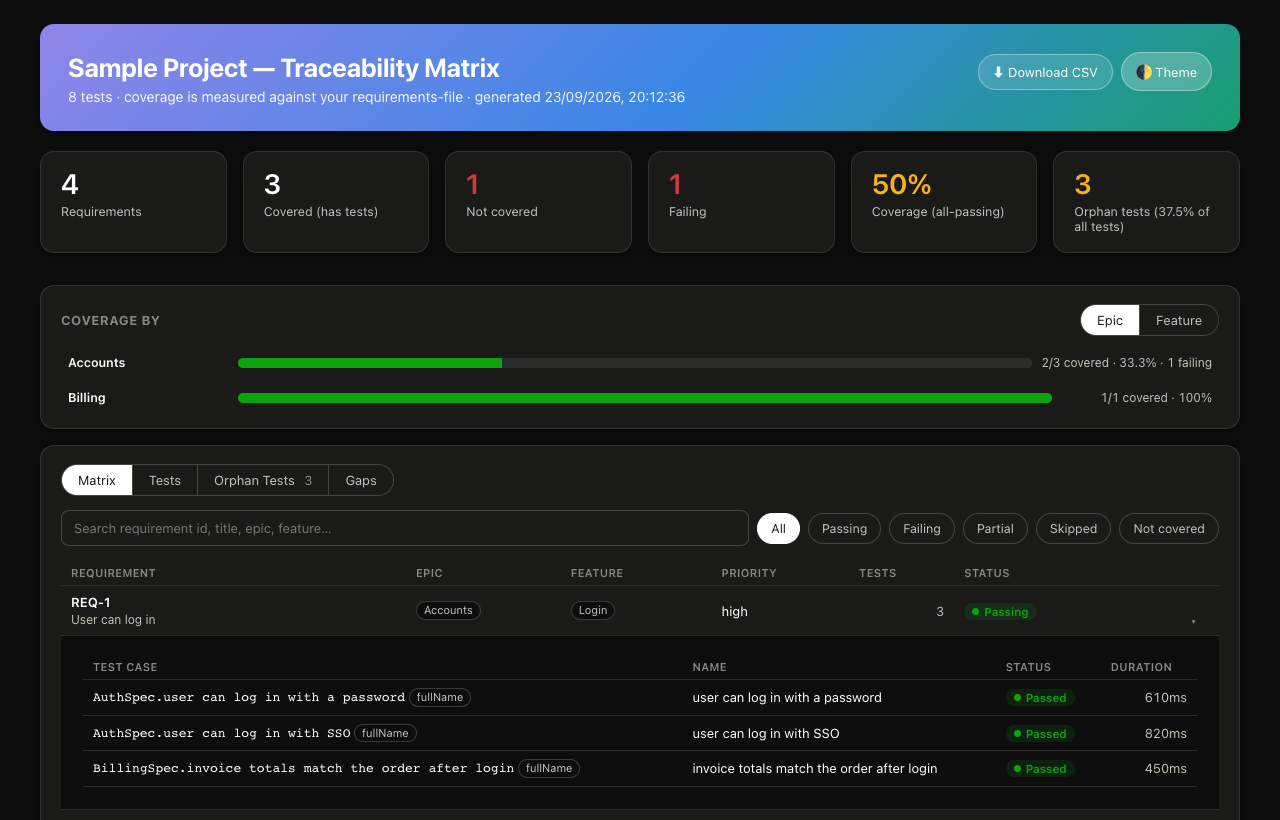
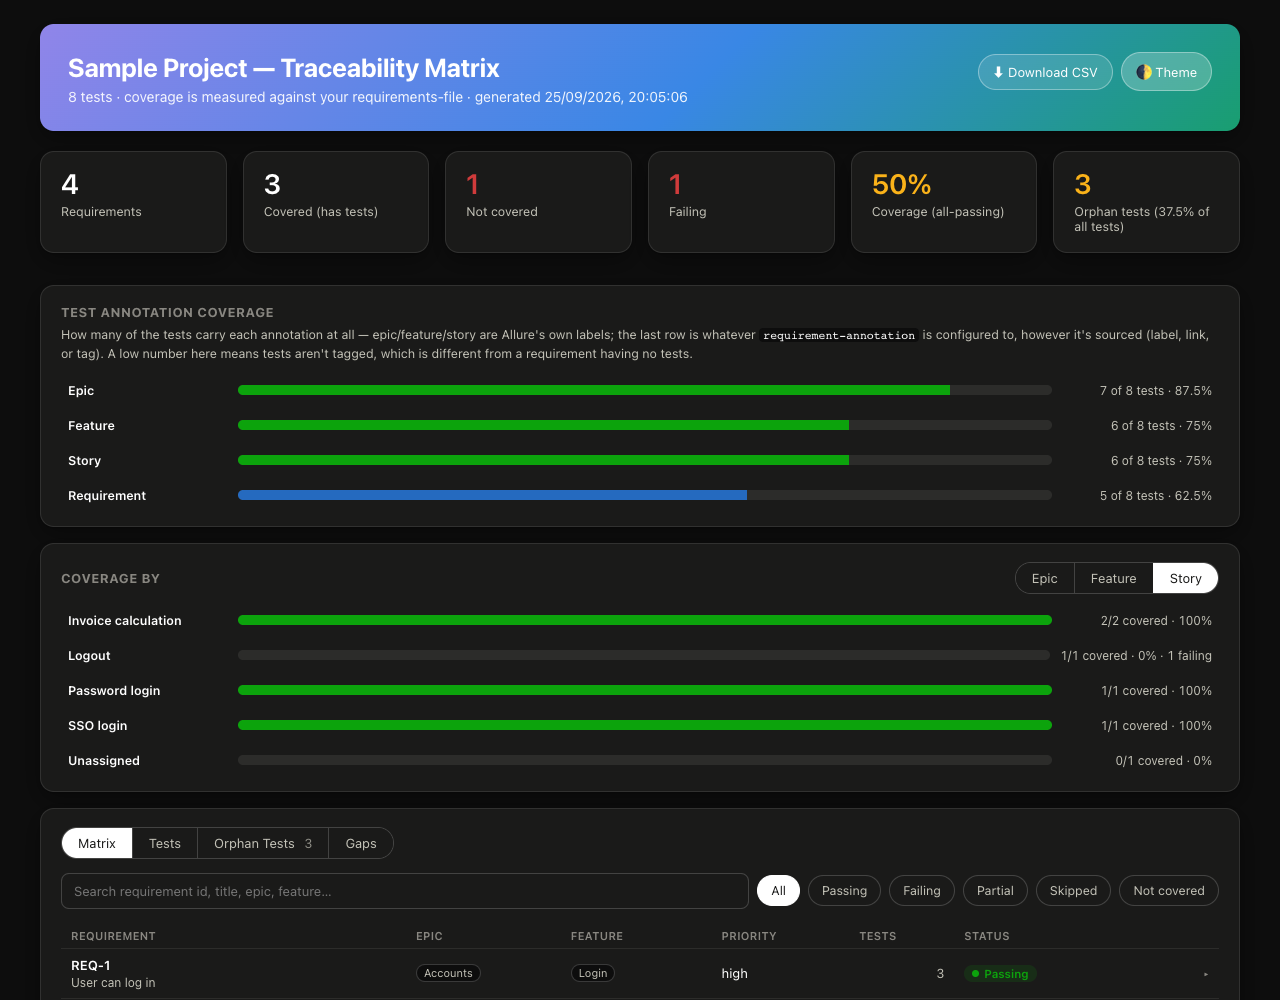
Traceability matrix: Story tab, Test annotation coverage card, docs, CI
- New "Test annotation coverage" card (top of page): a bar per Epic,
  Feature, Story and the configured requirement annotation, showing how
  many of all tests carry it at all - independent of and complementary to
  the existing "Coverage by" (requirement-level) grouping, which now also
  has a Story tab alongside Epic/Feature.
- README: new "Epic / feature / story vs. requirement coverage" section
  spelling out the distinction between the two views (test tagging hygiene
  vs. requirement coverage sliced by group) - the two easily read as the
  same thing since both mention Story, and they're deliberately not.
- Fixture: added epic/feature/story labels to 6 of the 8 sample tests
  (varied - some get all three, one gets only epic, one gets none) so the
  new comparison has real, uneven data to show (87.5% epic-tagged vs 75%
  feature/story vs 62.5% requirement-tagged in the bundled demo) instead of
  either 0% or 100% across the board. Existing requirement-coverage
  assertions are unaffected - epic/feature/story are an independent label
  dimension from the requirement/issue links those assertions check.
- Self-test workflow: new assertions for annotationCoverage counts, a
  byStory group's requirement count, and a requirement's resolved
  groups.story values - specifically covering the bug fixed in the
  previous commit, so a regression there fails CI, not just a future manual
  check.
- Regenerated docs/screenshot-{light,dark}.png from the enriched fixture,
[…]

diff --git a/traceability/site-template/assets/js/app.js b/traceability/site-template/assets/js/app.js
@@ -141,7 +141,24 @@ function renderMeta(summary) {
 }
 
 // ---- coverage by epic/feature ------------------------------------------
-const groupState = { data: { epic: [], feature: [] }, active: 'epic', filter: null };
+// ---- test annotation coverage (epic/feature/story labels vs the configured
+// requirement annotation) — a flat comparison, not a drill-down, so these
+// rows aren't clickable like the "Coverage by" ones below.
+function renderAnnotationCoverage(rows, totalTests) {
+  const host = document.getElementById('annotation-bars');
+  if (!rows || !rows.length) {
+    host.innerHTML = '<div class="empty-state">No annotations to compare.</div>';
+    return;
+  }
+  host.innerHTML = rows.map((r) => `
+    <div class="group-bar-row static${r.isRequirement ? ' requirement-row' : ''}">
+      <span class="name">${escapeHtml(r.name)}</span>
+      <span class="track"><span class="fill" style="width:${r.rate}%"></span></span>
+      <span class="stat">${r.count.toLocaleString()} of ${totalTests.toLocaleString()} tests · ${r.rate}%</span>
+    </div>`).join('');
+}
+
+const groupState = { data: { epic: [], feature: [], story: [] }, active: 'epic', filter: null };
 
 function renderGroupBars() {
   const rows = groupState.data[groupState.active] || [];
@@ -226,8 +243,7 @@ function filteredRequirements() {
   const q = document.getElementById('matrix-search').value.trim().toLowerCase();
   return matrixView.requirements.filter((r) => {
     const statusOk = matrixView.activeStatus === 'all' || r.status === matrixView.activeStatus;
-    const groupOk = !groupState.filter || (r[groupState.filter.label] === groupState.filter.value)
-      || (!r[groupState.filter.label] && r.tests.some((t) => (t.labels || {})[groupState.filter.label]?.includes?.(groupState.filter.value)));
+    const groupOk = !groupState.filter || (r.groups?.[groupState.filter.label] || []).includes(groupState.filter.value);
     return statusOk && groupOk && requirementMatches(r, q);
   });
 }
@@ -448,7 +464,8 @@ async function main() {
 
   renderMeta(summary);
   renderKPIs(summary);
-  groupState.data = { epic: summary.byEpic || [], feature: summary.byFeature || [] };
+  renderAnnotationCoverage(summary.annotationCoverage, summary.totalTests);
+  groupState.data = { epic: summary.byEpic || [], feature: summary.byFeature || [], story: summary.byStory || [] };
   renderGroupBars();
 
   matrixView.requirements = requirementsData.requirements;

diff --git a/traceability/site-template/assets/css/styles.css b/traceability/site-template/assets/css/styles.css
@@ -135,6 +135,8 @@ html, body {
 
 .card { background: var(--surface-1); border: 1px solid var(--border); border-radius: var(--radius); box-shadow: var(--shadow); padding: 18px 20px; margin-bottom: 16px; }
 .card h2 { font-size: 13px; text-transform: uppercase; letter-spacing: 0.04em; color: var(--text-muted); margin: 0 0 14px; display: flex; align-items: center; justify-content: space-between; gap: 10px; }
+.card-sub { font-size: 12.5px; color: var(--text-secondary); margin: -8px 0 14px; line-height: 1.5; }
+.card-sub code { font-size: 11.5px; color: var(--text-primary); background: var(--surface-2); padding: 0 4px; border-radius: 4px; }
 
 /* ---------- KPI tiles ---------- */
 .kpi { display: flex; flex-direction: column; gap: 6px; }
@@ -174,6 +176,9 @@ html, body {
 .group-bar-row { display: flex; align-items: center; gap: 10px; cursor: pointer; padding: 4px 6px; border-radius: var(--radius-sm); border: 1px solid transparent; background: none; width: 100%; text-align: left; font-family: inherit; color: inherit; }
 .group-bar-row:hover { background: var(--surface-2); }
 .group-bar-row.active { border-color: var(--seq-500); background: color-mix(in srgb, var(--seq-500) 8%, transparent); }
+.group-bar-row.static { cursor: default; }
+.group-bar-row.static:hover { background: none; }
+.group-bar-row.requirement-row .track .fill { background: var(--seq-500); }
 .group-bar-row .name { flex: 0 0 160px; font-size: 12.5px; font-weight: 600; overflow: hidden; text-overflow: ellipsis; white-space: nowrap; }
 .group-bar-row .track { flex: 1; height: 10px; border-radius: 5px; background: var(--gridline); overflow: hidden; display: flex; }
 .group-bar-row .track .fill { height: 100%; background: var(--status-good); }

diff --git a/traceability/site-template/index.html b/traceability/site-template/index.html
@@ -25,10 +25,22 @@
 
   <div class="card">
     <h2>
+      <span>Test annotation coverage</span>
+    </h2>
+    <p class="card-sub">How many of the tests carry each annotation at all — epic/feature/story are Allure's own
+      labels; the last row is whatever <code>requirement-annotation</code> is configured to, however it's sourced
+      (label, link, or tag). A low number here means tests aren't tagged, which is different from a requirement
+      having no tests.</p>
+    <div class="group-bars" id="annotation-bars"></div>
+  </div>
+
+  <div class="card">
+    <h2>
       <span>Coverage by</span>
       <span class="tabs" id="group-by-tabs">
         <button class="tab-btn active" data-group="epic">Epic</button>
         <button class="tab-btn" data-group="feature">Feature</button>
+        <button class="tab-btn" data-group="story">Story</button>
       </span>
     </h2>
     <div class="group-bars" id="group-bars"></div>

diff --git a/traceability/README.md b/traceability/README.md
@@ -125,6 +125,38 @@ one row for each not-covered requirement (blank test columns) and each
 orphan test (blank requirement columns) — every requirement and every test
 appears at least once, not just the pairs that exist.
 
+## Epic / feature / story vs. requirement coverage
+
+If your tests carry Allure's own `@Epic`/`@Feature`/`@Story` labels (most
+adapters' equivalent of TestNG's `@Epic`, pytest's `@allure.epic`, etc.), the
+report gives you two different, complementary views of them — worth telling
+apart, since they answer different questions:
+
+- **"Test annotation coverage"** (top of the page): *how many tests are
+  tagged at all*, independent of whether that tag maps to anything in a
+  requirements-file. For each of Epic, Feature, Story, and whatever
+  `requirement-annotation` is configured to, it's a straight count — X of Y
+  tests carry that annotation. A low number here means tests aren't being
+  tagged, not that requirements are uncovered; it's a different problem from
+  everything else on the page. The requirement row is measured the same way
+  the rest of the report measures requirement tracing (respecting
+  `requirement-source`/`requirement-id-pattern`), the epic/feature/story rows
+  are always read as plain Allure labels (there's no `epic-source` input —
+  Allure itself defines them as labels, never links).
+- **"Coverage by"** (Epic / Feature / Story tabs, below it): the *existing*
+  requirement-coverage numbers (same `not-covered`/`failing`/`passing`
+  definitions as everywhere else on the page), just grouped by epic, feature,
+  or story instead of listed flat. A requirement's group comes from that
+  column in `requirements-file` if you gave one with that column; otherwise
+  from the union of that label's values across the requirement's own
+  covering tests. Click a bar to filter the Matrix tab to it.
+
+So "Story: 6 of 8 tests (75%)" in the first card and the five story buckets
+in the second are counting different things — one is about test tagging
+hygiene, the other is requirement coverage sliced by story. Both are in
+`data/summary.json` (`annotationCoverage`, `byEpic`, `byFeature`, `byStory`)
+if you want to consume them directly instead of via the page.
+
 ## Inputs
 
 | Input | Required | Default | Meaning |
